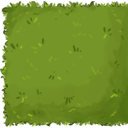
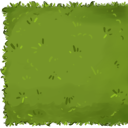
asset 2

Changed region(s): [[0.75, 0.0, 0.9688, 0.1562], [0.9375, 0.6562, 1.0, 0.8125], [0.5312, 0.0312, 0.5625, 0.0625]]

diff --git a/frontend/src/logic/wallResolver.ts b/frontend/src/logic/wallResolver.ts
@@ -5,9 +5,16 @@ export interface WallAssetResult {
 
 const WALL_IMG = '/assets/maze/wall.png';
 const WALL_END_IMG = '/assets/maze/wall_end.png';
+const WALL_CORNER_IMG = '/assets/maze/wall_corner.png';
 
 /**
- * Resolves which wall asset to render for the cell at (x, y).
+ * Resolves which wall asset to render for the cell at (x, y) and applies standard CSS 
+ * rotations to achieve 4-way modularity.
+ * 
+ * Assumptions for base assets (0deg rotation):
+ * - wall_end.png: left-side end cap (connects to the RIGHT)
+ * - wall.png: horizontal straight (connects LEFT and RIGHT)
+ * - wall_corner.png: top-left corner (connects RIGHT and BOTTOM)
  */
 export function resolveWallAsset(x: number, y: number, maze: number[][]): WallAssetResult {
   const H = maze.length;
@@ -16,14 +23,35 @@ export function resolveWallAsset(x: number, y: number, maze: number[][]): WallAs
   const isWall = (cx: number, cy: number): boolean =>
     cx >= 0 && cx < W && cy >= 0 && cy < H && maze[cy][cx] === 1;
 
-  const hasLeft = isWall(x - 1, y);
-  const hasRight = isWall(x + 1, y);
+  const top = isWall(x, y - 1);
+  const right = isWall(x + 1, y);
+  const bottom = isWall(x, y + 1);
+  const left = isWall(x - 1, y);
 
-  // Left-end: no wall to the left, wall continues to the right
-  if (!hasLeft && hasRight) {
-    return { src: WALL_END_IMG };
+  const neighborsCount = (top ? 1 : 0) + (right ? 1 : 0) + (bottom ? 1 : 0) + (left ? 1 : 0);
+
+  // Endpoints (dead ends)
+  if (neighborsCount === 1) {
+    if (right) return { src: WALL_END_IMG, transform: 'rotate(0deg)' };
+    if (bottom) return { src: WALL_END_IMG, transform: 'rotate(90deg)' };
+    if (left) return { src: WALL_END_IMG, transform: 'rotate(180deg)' };
+    if (top) return { src: WALL_END_IMG, transform: 'rotate(270deg)' };
   }
 
-  // Default: continuation wall
-  return { src: WALL_IMG };
+  // Corridors & Corners
+  if (neighborsCount === 2) {
+    // Corners
+    if (right && bottom) return { src: WALL_CORNER_IMG, transform: 'rotate(0deg)' };
+    if (bottom && left) return { src: WALL_CORNER_IMG, transform: 'rotate(90deg)' };
+    if (left && top) return { src: WALL_CORNER_IMG, transform: 'rotate(180deg)' };
+    if (top && right) return { src: WALL_CORNER_IMG, transform: 'rotate(270deg)' };
+    
+    // Straights
+    if (left && right) return { src: WALL_IMG, transform: 'rotate(0deg)' };
+    if (top && bottom) return { src: WALL_IMG, transform: 'rotate(90deg)' };
+  }
+
+  // T-junctions, cross intersections, or isolated 1x1 walls
+  // Fallback to horizontal wall to avoid crashing or disappearing
+  return { src: WALL_IMG, transform: 'rotate(0deg)' };
 }
